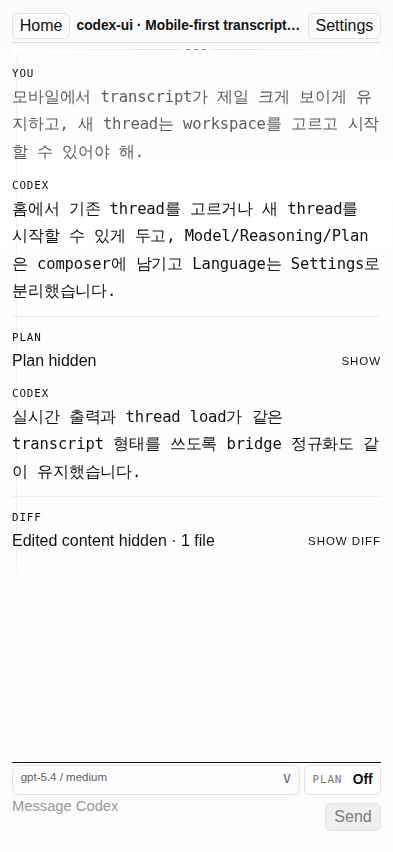
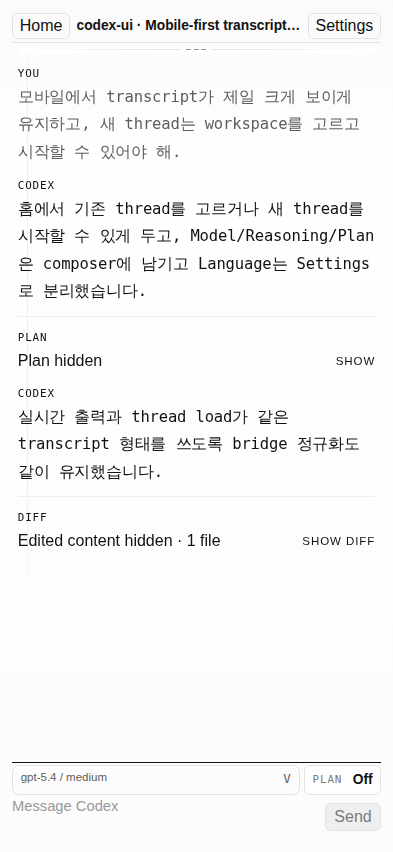
Add mobile transcript gutters

diff --git a/app/globals.css b/app/globals.css
@@ -2331,7 +2331,7 @@ pre {
 
   .transcript-scroll,
   .overlay-scroll {
-    padding: 0.08rem 0 0.42rem;
+    padding: 0.08rem 0.36rem 0.42rem;
     scroll-padding-block-end: 5rem;
   }
 
@@ -2340,7 +2340,7 @@ pre {
   }
 
   .history-list::before {
-    left: 0.22rem;
+    left: 0.58rem;
   }
 
   .history-turn-divider {

diff --git a/RELEASE_NOTES.md b/RELEASE_NOTES.md
@@ -45,6 +45,7 @@
 - Removed the heavy focused textarea ring from the composer so the chat input stays visually flat instead of reading like a boxed card.
 - Stopped auto-focusing the composer on phone layouts when opening chat or changing lightweight session controls, which avoids the mobile keyboard stealing space immediately.
 - Reduced mobile composer summary chrome and hid redundant ready-state badges so the transcript and launcher keep more usable height.
+- Restored a small horizontal inset to the mobile transcript so message rows no longer sit flush against the viewport edges.
 
 ### Verification
 
@@ -61,6 +62,7 @@
 - Browser check: mobile ready state no longer spends an extra line on idle status text, leaving more height for the transcript.
 - Browser check: the focused composer no longer draws a thick rectangular ring around the input area on desktop or mobile.
 - Browser check: opening a thread on mobile no longer immediately forces focus into the composer, so the keyboard does not pop over the transcript.
+- Browser check: mobile chat now keeps a visible left/right gutter instead of running transcript rows directly against the edges.
 - Browser check: after choosing a custom workspace, reload and `/new` continue to target that workspace instead of jumping back to the launch directory.
 - API/UI check: workspace directory browsing now surfaces regular source folders ahead of hidden and generated directories.
 - API check: live turn output and subsequent `thread/read` now produce the same normalized timeline entries for a real turn, including stable unchanged-entry timestamps.
